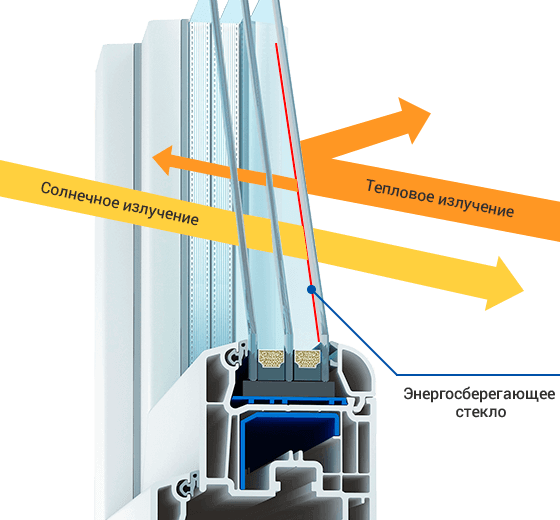
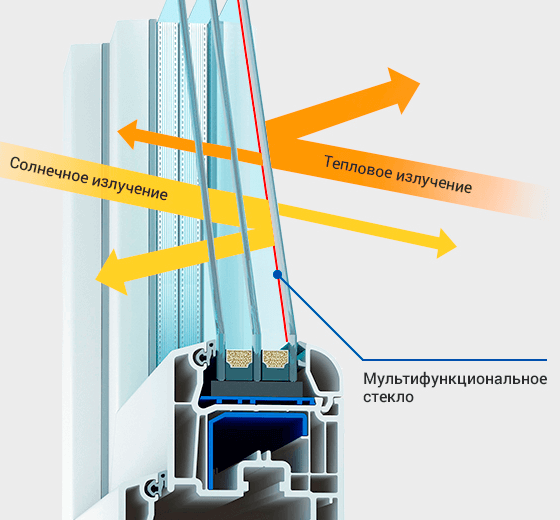
Update images/text

diff --git a/eurookna-landing/index.html b/eurookna-landing/index.html
@@ -639,19 +639,19 @@
 			</div>
 		</section>
 
-		<!-- Энергосберегающий стеклопакет в подарок -->
+		<!-- Мультифункциональный стеклопакет в подарок -->
 		<section class="uk-section uk-section-muted uk-background-cover uk-background-image@m bg-special-1" style="background-image: url('images/bg4.png');">
 			<div class="uk-container uk-text-left@m uk-text-center">
 				<div class="uk-child-width-1-2@m" uk-grid>
 					<div>
 						<div class="uk-panel uk-background-default uk-box-shadow-small" uk-scrollspy="cls:uk-animation-slide-bottom-medium">
 							<div class="uk-height-medium uk-background-contain uk-hidden@m" style="background-image: url('images/bg4-small.png');">
-								<!-- <img src="images/bg4-small.png" alt="Энергосберегающий стеклопакет Guardian"> -->
+								<!-- <img src="images/bg4-small.png" alt="Мультифункциональный стеклопакет Guardian"> -->
 								<!-- <img class="uk-position-small uk-position-top-right" src="images/guardian-logo.png" alt="Немецкое качество" width="100" uk-scrollspy="cls:uk-animation-scale-down; delay: 200"> -->
 							</div>
 							<div class="uk-padding" uk-scrollspy="cls:uk-animation-slide-bottom-small; delay: 200">
-								<img src="images/guardian-logo.png" alt="Энергосберегающий стеклопакет Guardian">
-								<h2 class="uk-h1 uk-text-uppercase uk-margin uk-text-break">Энерго&shy;сбе&shy;ре&shy;га&shy;ю&shy;щий стеклопакет <span class="uk-text-primary">в&nbsp;подарок</span></h2>
+								<img src="images/guardian-logo.png" alt="Мультифункциональный стеклопакет Guardian">
+								<h2 class="uk-h1 uk-text-uppercase uk-margin uk-text-break">Mульти&shy;функцио&shy;наль&shy;ный стеклопакет <span class="uk-text-primary">в&nbsp;подарок</span></h2>
 								<p class="uk-text-muted uk-margin-remove-bottom">Такие стеклопакеты значительно снижают расходы на отопление зимой и на кондиционирование летом. Высокая теплоизолирующая способность препятствует появлению «эффекта сквозняка».</p>
 							</div>
 						</div>

diff --git a/eurookna-landing/index-2.html b/eurookna-landing/index-2.html
@@ -269,19 +269,19 @@
 			</div>
 		</section>
 
-		<!-- Энергосберегающий стеклопакет в подарок -->
+		<!-- Мультифункциональный стеклопакет в подарок -->
 		<section class="uk-section uk-section-muted uk-background-cover uk-background-image@m bg-special-1" style="background-image: url('images/bg4.png');">
 			<div class="uk-container uk-text-left@m uk-text-center">
 				<div class="uk-child-width-1-2@m" uk-grid>
 					<div>
 						<div class="uk-panel uk-background-default uk-box-shadow-small" uk-scrollspy="cls:uk-animation-slide-bottom-medium">
 							<div class="uk-height-medium uk-background-contain uk-hidden@m" style="background-image: url('images/bg4-small.png');">
-								<!-- <img src="images/bg4.png" alt="Энергосберегающий стеклопакет Guardian"> -->
+								<!-- <img src="images/bg4.png" alt="Мультифункциональный стеклопакет Guardian"> -->
 								<!-- <img class="uk-position-small uk-position-top-right" src="images/stamp.png" alt="Немецкое качество" width="100" uk-scrollspy="cls:uk-animation-scale-down; delay: 200"> -->
 							</div>
 							<div class="uk-padding" uk-scrollspy="cls:uk-animation-slide-bottom-small; delay: 200">
-								<img src="images/guardian-logo.png" alt="Энергосберегающий стеклопакет Guardian">
-								<h2 class="uk-h1 uk-text-uppercase uk-margin uk-text-break">Энерго&shy;сбе&shy;ре&shy;га&shy;ю&shy;щий стеклопакет <span class="uk-text-primary">в&nbsp;подарок</span></h2>
+								<img src="images/guardian-logo.png" alt="Мультифункциональный стеклопакет Guardian">
+								<h2 class="uk-h1 uk-text-uppercase uk-margin uk-text-break">Mульти&shy;функцио&shy;наль&shy;ный стеклопакет <span class="uk-text-primary">в&nbsp;подарок</span></h2>
 								<p class="uk-text-muted uk-margin-remove-bottom">Такие стеклопакеты значительно снижают расходы на отопление зимой и на кондиционирование летом. Высокая теплоизолирующая способность препятствует появлению «эффекта сквозняка».</p>
 							</div>
 						</div>
